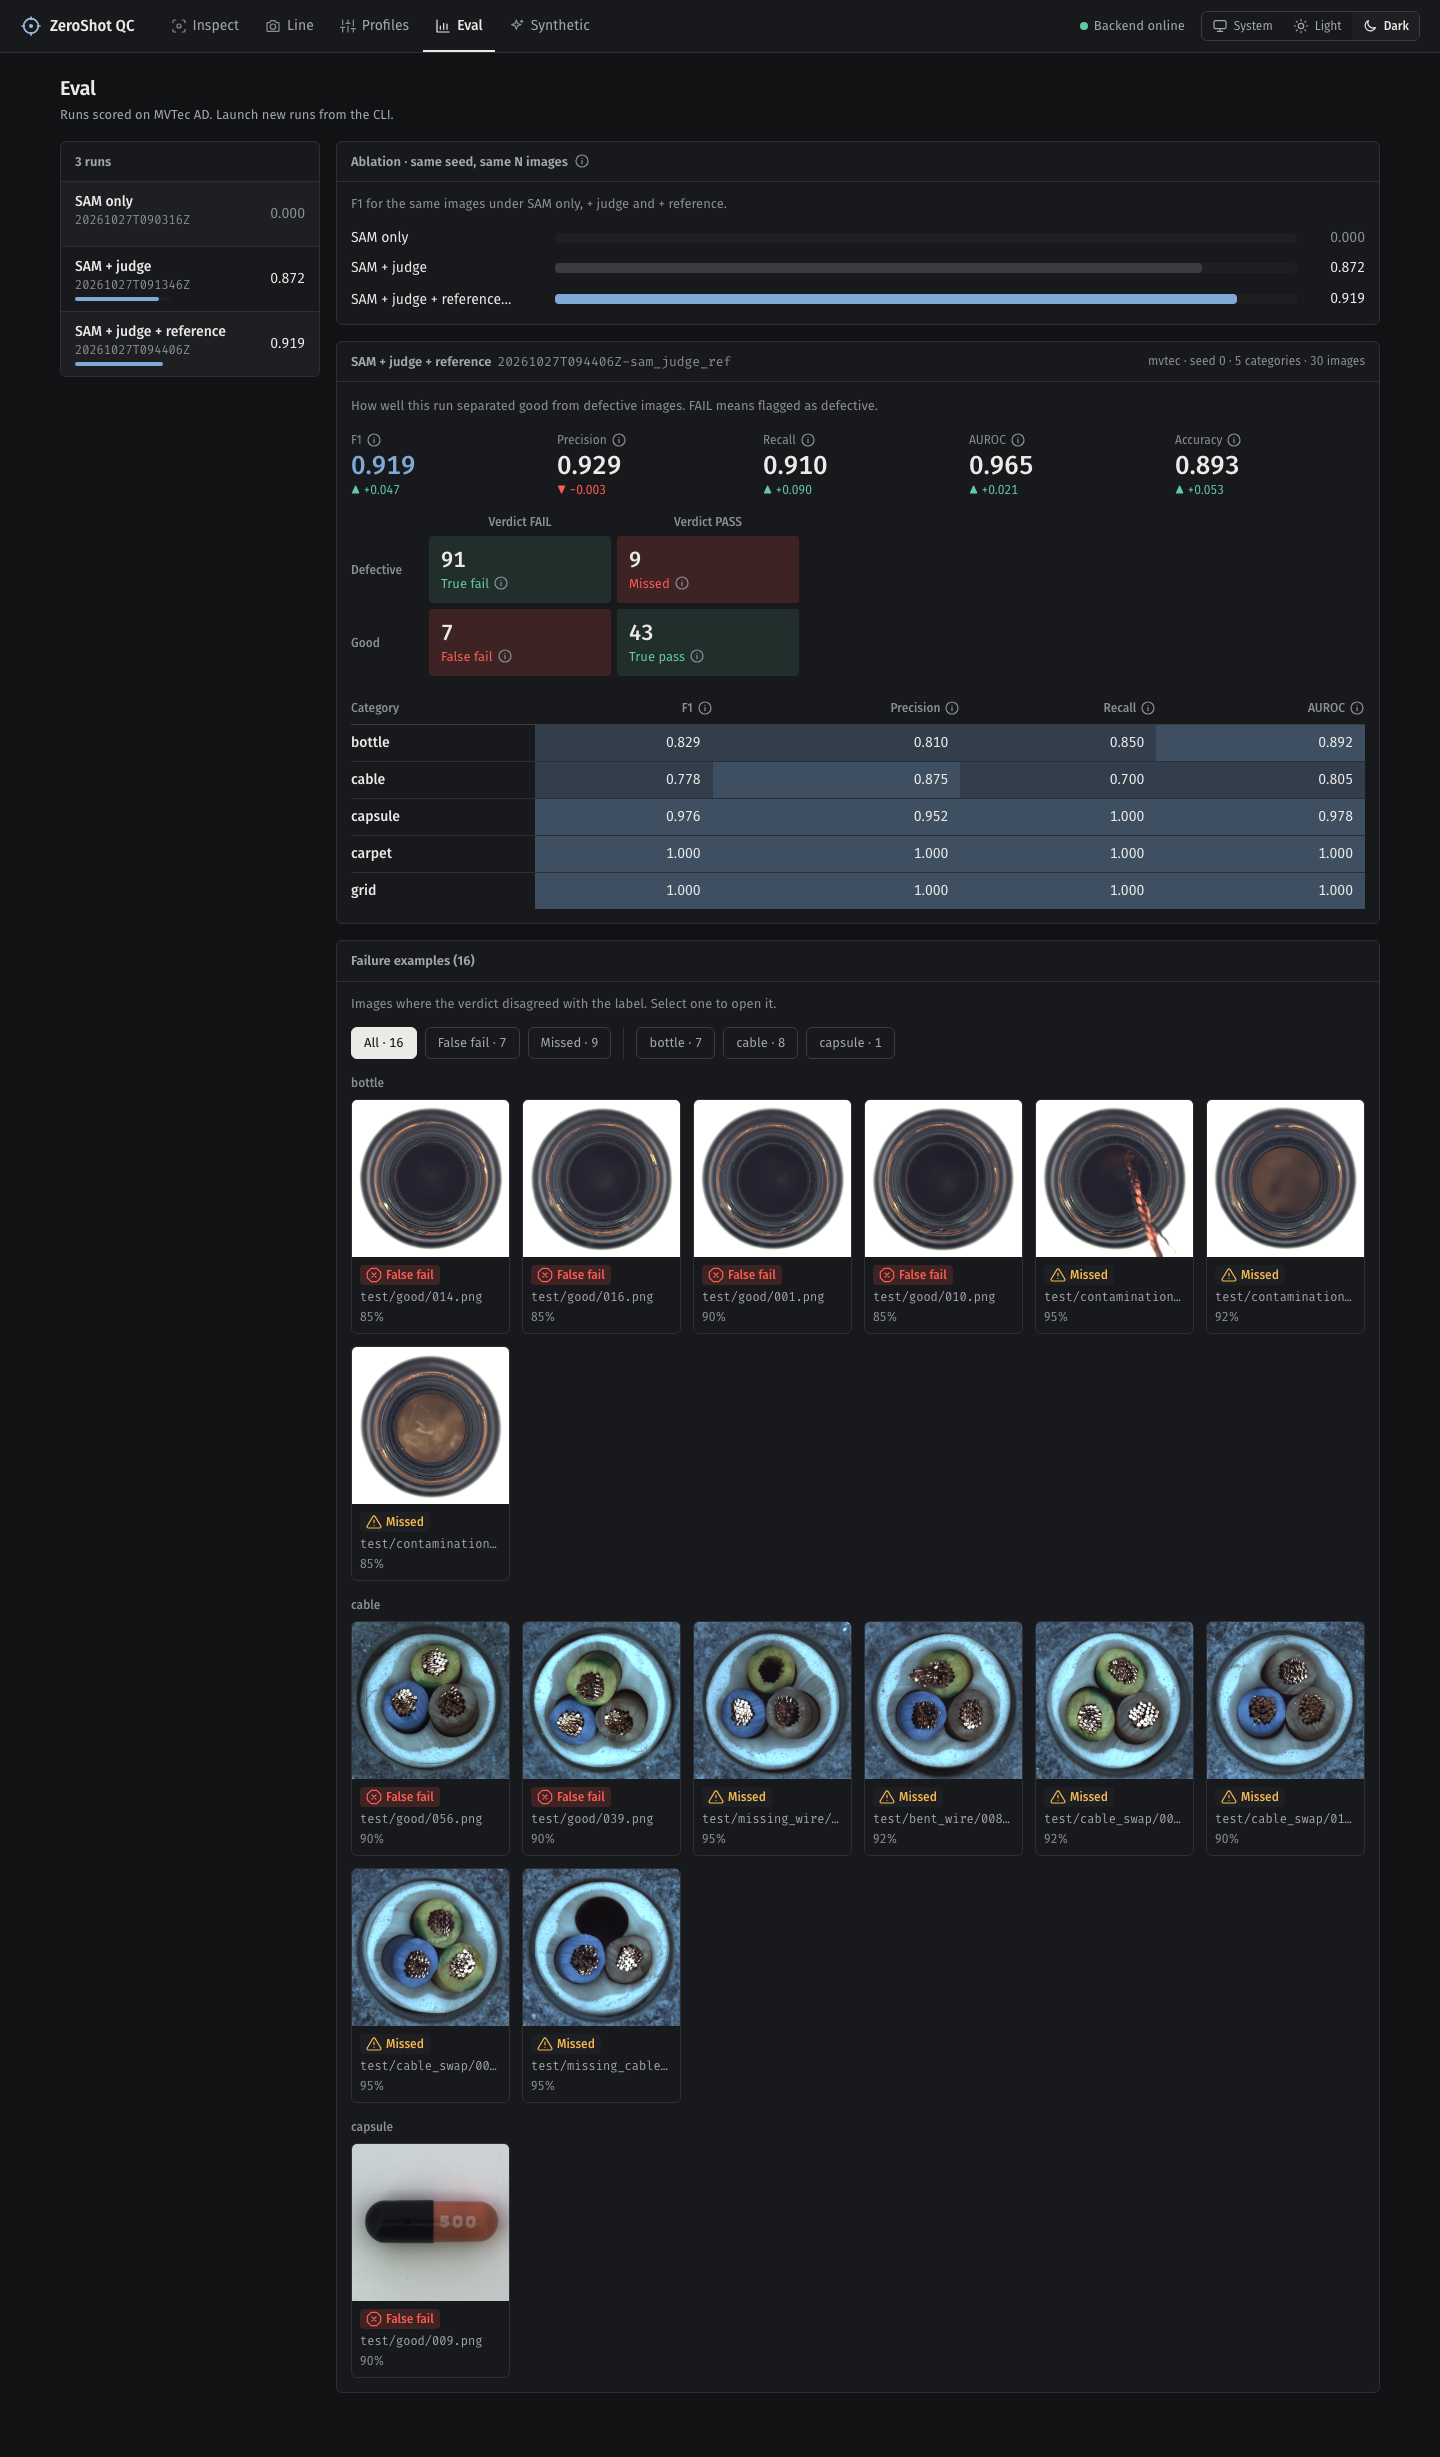
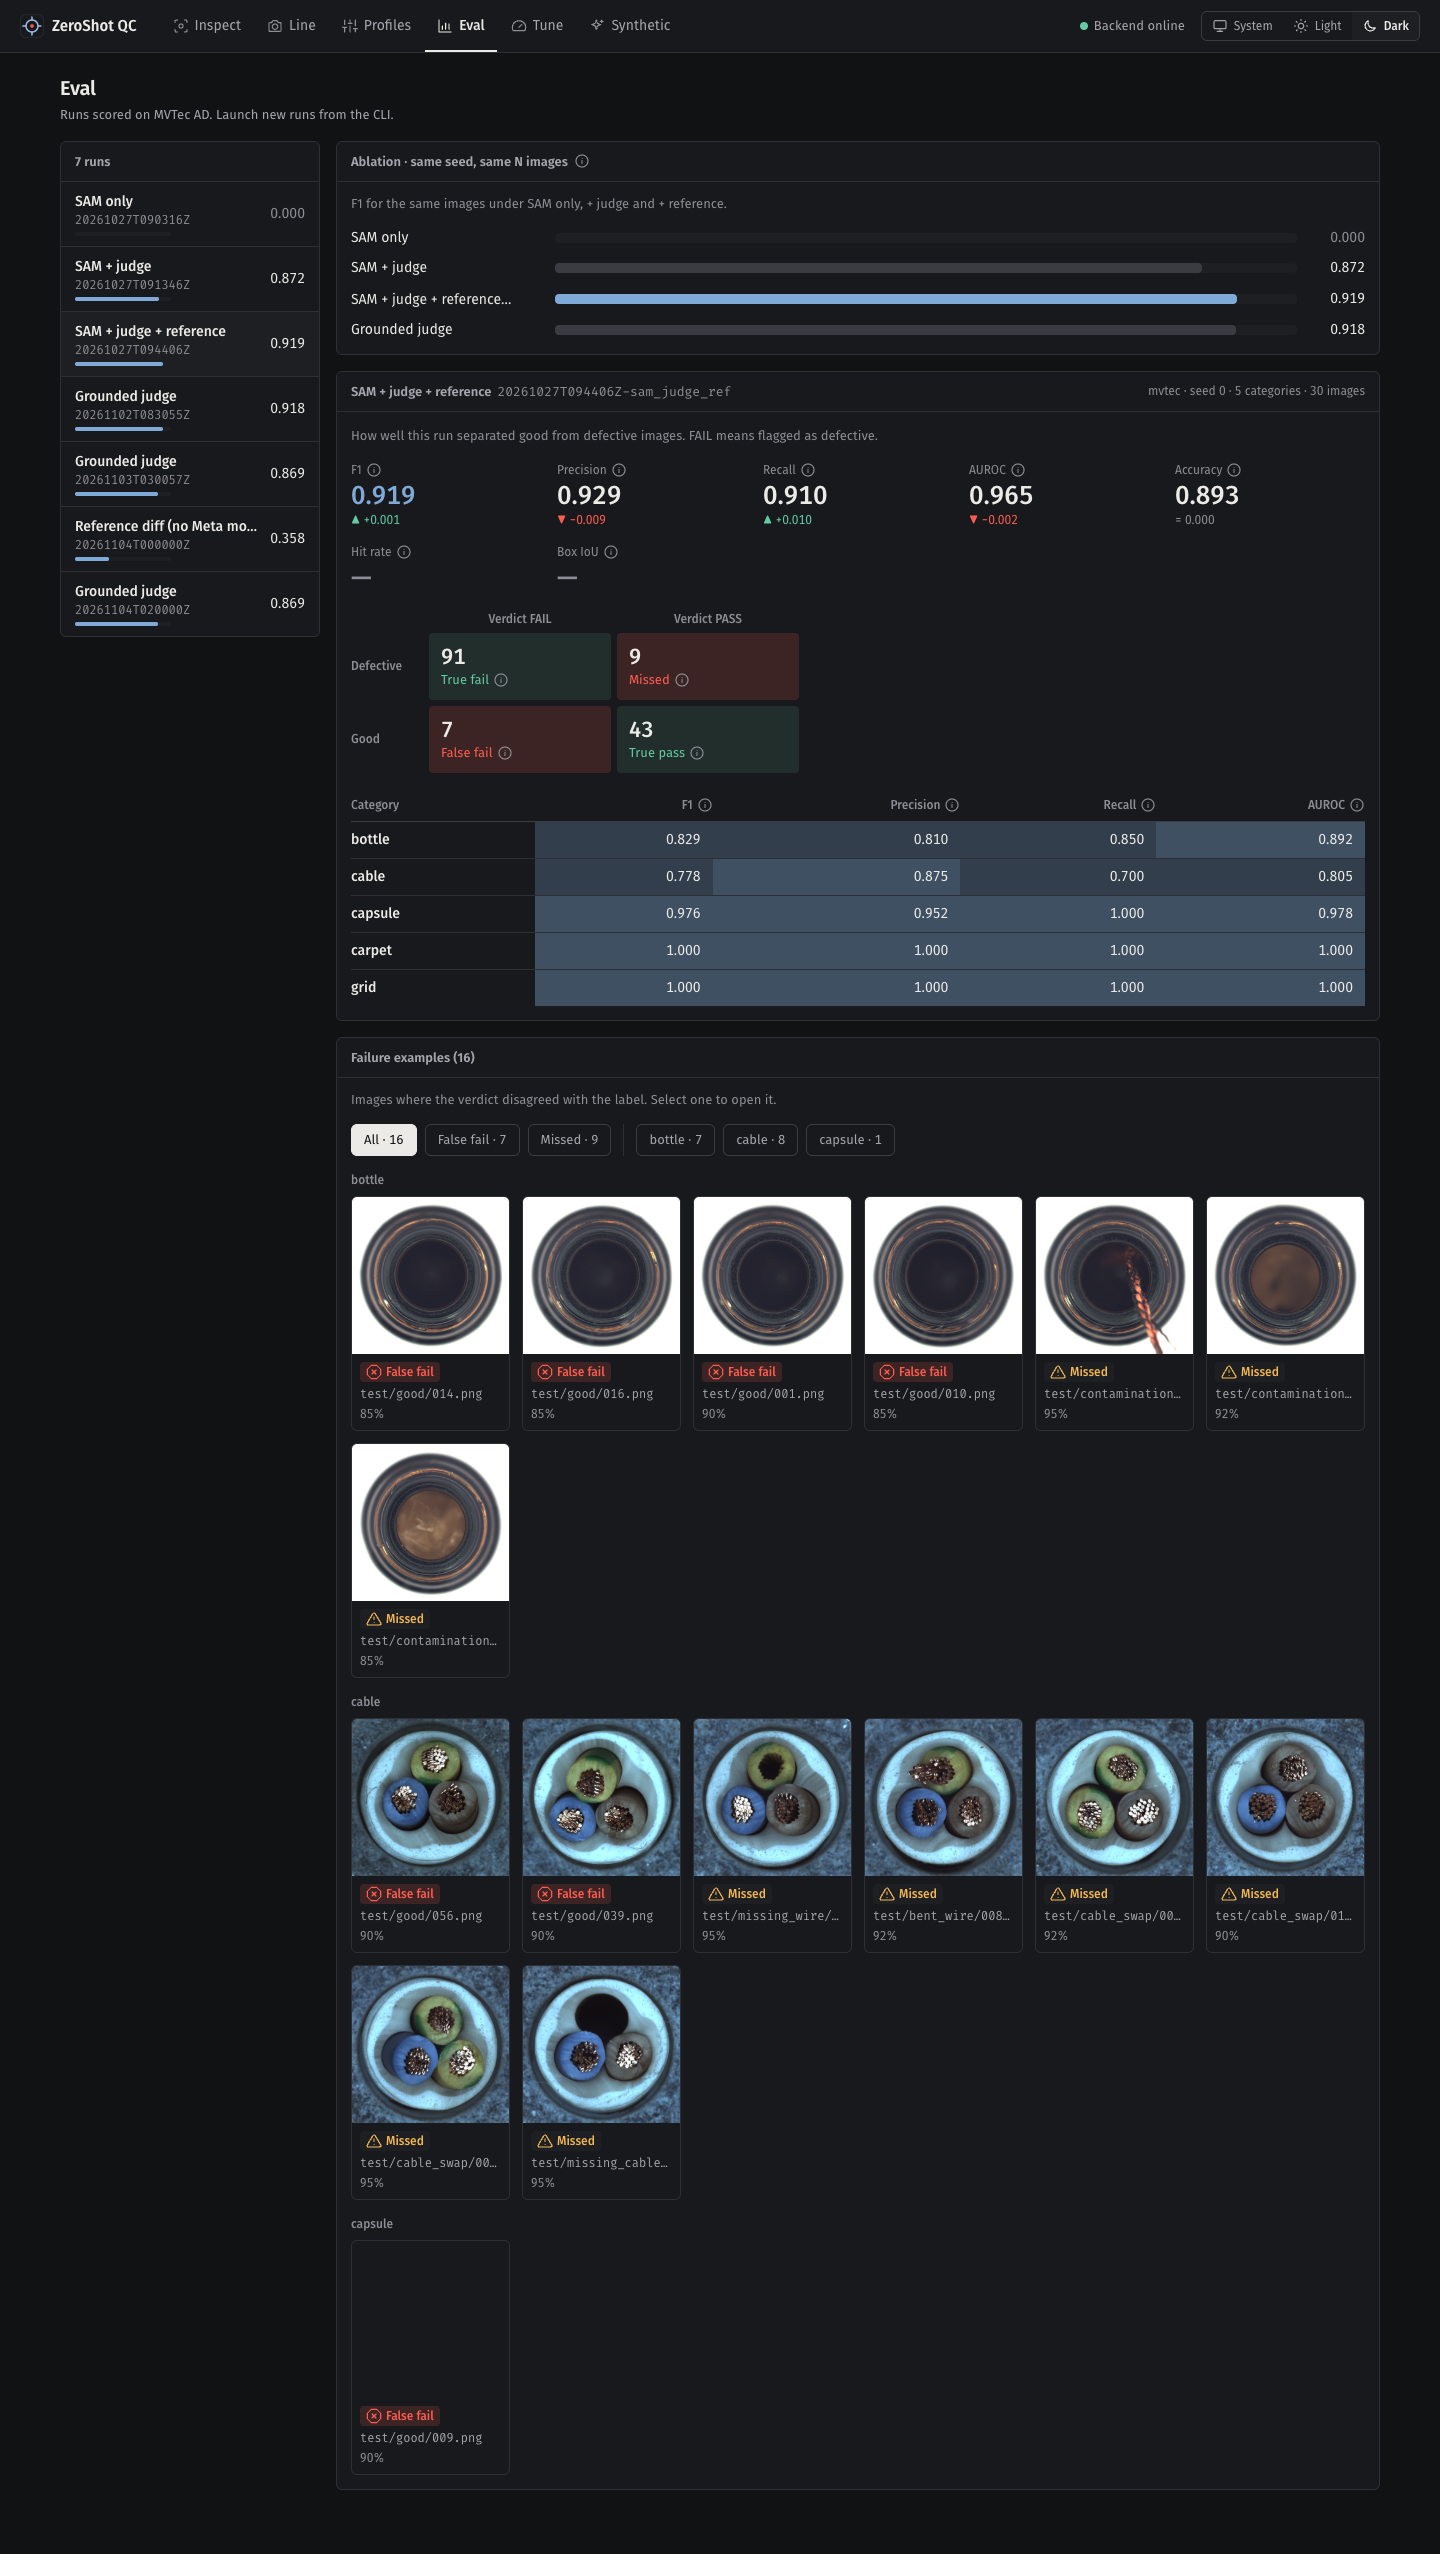
docs: match readme and dev guide to sam outlines, voice and eval runs

diff --git a/README.md b/README.md
@@ -1,7 +1,7 @@
 <p align="center">
   <picture>
     <source media="(max-width: 600px)" srcset="docs/assets/banner-narrow.svg">
-    <img src="docs/assets/banner.svg" alt="ZeroShot QC, zero-training visual inspection. SAM 3.1 finds the part, and Muse Spark judges it against plain-English rules and a known-good reference, and boxes each defect. 0.918 F1 on MVTec AD across 5 categories, 63% of defects located, 0 training images. Three steps: the plain-English screw rule from the product profile, SAM 3.1 finding and zooming on the part, and Muse Spark returning FAIL with a red box on the screw head." width="100%">
+    <img src="docs/assets/banner.svg" alt="ZeroShot QC, zero-training visual inspection. SAM 3.1 finds the part, and Muse Spark judges it against plain-English rules and a known-good reference, boxes each defect, and SAM 3.1 outlines it. 0.918 F1 on MVTec AD across 5 categories, 63% of defects located, 0 training images. Three steps: the plain-English screw rule from the product profile, SAM 3.1 finding and zooming on the part, and Muse Spark returning FAIL with a red box on the screw head." width="100%">
   </picture>
 </p>
 
@@ -19,8 +19,8 @@ Built for the Meta Global AI Developer Hackathon 2026, track: Build for Your Wor
   <a href="https://youtu.be/IlT8yUzFjS8">Watch the 3-minute demo on YouTube</a>
 </p>
 
-- **What it does.** Visual inspection with zero training: SAM 3.1 finds the part, then Muse Spark judges it against plain-English rules and a known-good reference image and boxes each defect. No labelled defect images, no model training.
-- **How well.** On real MVTec AD (5 categories x 30 images), F1 is 0.918 in grounded mode, which also puts a box on 63% of real defects. It is 0.919 with a reference image but no boxes, 0.872 without a reference, and 0.000 for SAM alone. Across 7 categories (adding screw and metal nut) grounded F1 is 0.869. Rule tuning helped in 1 of 6 runs: when the synthetic defects matched the real ones, metal nut rose from 0.824 to 0.878. Details and caveats are in [Results](#results).
+- **What it does.** Visual inspection with zero training: SAM 3.1 finds the part, then Muse Spark judges it against plain-English rules and a known-good reference image and boxes each defect, then SAM 3.1 outlines each box. Spoken rule edits on the Line page go through Muse Voice Transcribe. No labelled defect images, no model training.
+- **How well.** On real MVTec AD (5 categories x 30 images), F1 is 0.918 in grounded mode, which also puts a box on 63% of real defects. It is 0.919 with a reference image but no boxes, 0.872 without a reference, and 0.000 for SAM alone. Across 7 categories (adding screw and metal nut) grounded F1 is 0.869 (95% CI 0.826 to 0.904), and SAM's outline lifts pixel IoU from 0.285 to 0.403 with the same verdicts. A plain reference-diff baseline with no Meta model reaches F1 0.358. Rule tuning helped in 1 of 6 runs: when the synthetic defects matched the real ones, metal nut rose from 0.824 to 0.878. Details and caveats are in [Results](#results).
 - **Where your data goes.** The bundled demo replays cached verdicts offline and sends nothing anywhere. Live mode (you add `META_API_KEY`) sends your images and rules to the Meta Model API endpoint set in `META_API_BASE_URL`.
 
 ## Quickstart
@@ -36,7 +36,9 @@ Open http://localhost:8080. Every page is already populated from a bundled demo 
 What to try:
 
 - **Inspect**: click a "Try a sample" thumbnail. It picks the profile and returns a real SAM + Muse Spark verdict, replayed from cache. Edit the rules box to re-judge; with no key, edits and your own uploads return a placeholder verdict with a "Demo result" banner.
-- **Eval**: three evaluation runs with failure thumbnails.
+- **Eval**: seven evaluation runs (SAM only, SAM + judge, + reference, grounded, and the reference-diff baseline) with the newest run per mode in the ablation, plus failure thumbnails.
+- **Tune**: replays the metal nut rule rewrite and its held-out F1.
+- **Line**: camera inspection. Spoken rule edits need a key and `VOICE_MODEL_ID`.
 - **Synthetic**: generated bottle defect images with masks.
 - **Profiles**: product profiles with their reference images.
 
@@ -168,11 +170,11 @@ The Tune page replays offline rule tuning: the judge's rules are rewritten from 
 
 ## Screens
 
-Inspect, after clicking "Screw, scratched head": the judge fails the part and boxes the scratch on the head.
+Inspect, after clicking "Screw, scratched head": the judge fails the part and boxes the scratch on the head. The page draws the judge's box; SAM 3.1's outline inside it sets the mask used for the defect area and pixel IoU.
 
-![Inspect page showing a FAIL verdict and a judge box on a scratched screw head](docs/assets/screens/inspect.png)
+![Inspect page showing a FAIL verdict and the judge's box on a scratched screw head](docs/assets/screens/inspect.png)
 
-Eval: the five runs, F1 ablation, confusion matrix and failure examples. Try the "False fail" and "Missed" filters.
+Eval: the seven runs, F1 ablation, confusion matrix and failure examples. Try the "False fail" and "Missed" filters.
 
 ![Eval page showing the F1 ablation, confusion matrix and failures](docs/assets/screens/eval.png)
 

diff --git a/docs/DEVELOPMENT.md b/docs/DEVELOPMENT.md
@@ -19,7 +19,7 @@ Verify with `cd backend && python scripts/smoke.py --fake` (needs no dataset or 
 - Python 3.11 (`python3.11 --version`; pinned in `.python-version`)
 - Node 18+ (`node --version`) with npm
 - Docker with the daemon running (`docker info` must succeed)
-- No API keys are needed for a fake-adapter local run. Real SAM 3.1 / Muse Spark / Muse Image calls need the keys below.
+- No API keys are needed for a fake-adapter local run. Real SAM 3.1 / Muse Spark / Muse Image / Muse Voice calls need the keys below.
 
 ## Setup
 
@@ -121,3 +121,13 @@ Notes:
 - Keyless: with no `META_API_KEY`, bundled samples replay real cached verdicts and other inputs fall back to placeholder models (flagged `demo: true`). `USE_FAKE_ADAPTERS=true` forces fakes everywhere.
 - Data persists in the `zqc-data` volume across `down`/`up` (`down -v` deletes it).
 - Stop the dev servers (`uvicorn :8000`, Vite) first if the host ports are taken.
+
+## Eval commands (from `backend/`)
+
+| Command | Cost |
+|---|---|
+| `python -m app.eval.stats RUN_DIR [--vs RUN_DIR] [--boots N] [--seed N]` | Free: bootstrap CIs and McNemar from a run's stored results. |
+| `python -m app.eval.run --mode ref_diff --mvtec-dir DIR ...` | Free, no model: OpenCV reference-diff baseline. Needs the MVTec images. |
+| `python -m scripts.time_inspect [--dry]` | Paid: live model calls. `--dry` lists the images and call budget without calling the API. |
+
+`app.eval.run` takes `--mode {sam_only,sam_judge,sam_judge_ref,grounded,ref_diff}`; every mode except `ref_diff` calls the models unless `--adapter fake` or `scripted` is used.
